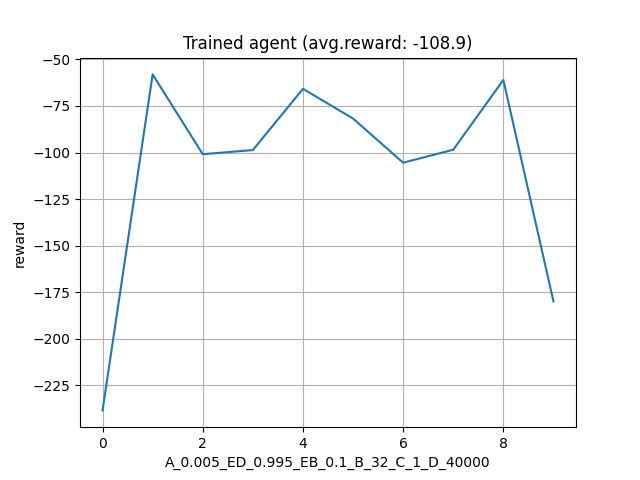
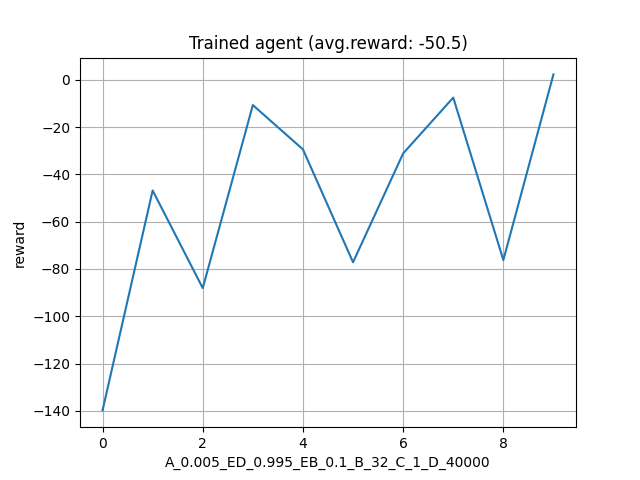
Jan 18 update

diff --git a/test.py b/test.py
@@ -8,31 +8,11 @@ from tensorflow.python.framework.ops import disable_eager_execution
 tf.compat.v1.disable_eager_execution()
 disable_eager_execution()
 
-# class Environment(object):
-#     def __init__(self):
-#         self.whoami = 'environment'
-#
-#     def start(self, episode_num):
-#
-#         array = np.array([episode_num, episode_num, episode_num, episode_num])
-#
-#         return array
-#
-#     def action(self, agent_action):
-#         # now let's see what we've learned
-#         array = np.array([agent_action, agent_action, agent_action, agent_action])
-#         end_flag = False
-#         reward = np.random.random() * 50 - 100
-#
-#         return array, reward, end_flag
-#
-#         pass
-
 class Agent(object):
     def __init__(self):
         self.whoami = 'agent'
         self.env = en.Environment()
-        self.columns = self.env.loaddata()
+        self.columns = self.env.loaddata() + self.env.derivative_columns
 
         # general parameters
         self.ep_step_cap = 1000
@@ -49,8 +29,8 @@ class Agent(object):
         self.gamma = 0.1  # 0.99
         self.epsilon = 1.0  # 1.0
 
-        self.M_episodes = 10
-        self.T_episodes = 10
+        self.M_episodes = 1000
+        self.T_episodes = 100
 
         # learned parameters
         self.minibatch = 32  # 32
@@ -117,13 +97,15 @@ class Agent(object):
 
         while episode <= self.M_episodes:
 
-            this_state = self.env.start(episode)
+            first_state, derivative_state = self.env.start(episode)
+            this_state = np.concatenate((first_state, derivative_state))
 
             end_flag = False
             t = 0
             total_reward = 0.0
             len_D_flag = False
             len_D = 0
+            action_stats = [0,0,0]
 
             # run episode
             while (t < self.ep_step_cap) and not end_flag:
@@ -138,8 +120,11 @@ class Agent(object):
                     # convert action range (0, 1, 2) to (-1, 0, 1)
                     action = np.argmax(Q_value[0]) - 1
 
+                action_stats[action+1] += 1
+
                 # Execute action a_t in emulator and observe reward r_t and image x_t+1
-                next_state, reward, end_flag = self.env.action(action)
+                first_state, derivative_state, reward, end_flag = self.env.action(action)
+                next_state = np.concatenate((first_state, derivative_state))
 
                 total_reward += reward
 
@@ -220,7 +205,7 @@ class Agent(object):
             # printing statistics about finished episode
             if self.debug:
                 # self.env.render()
-                print('total_reward', total_reward, 'episode', episode)
+                print('total_reward', total_reward, 'episode', episode, 'Stats: buy', action_stats[2], 'hold', action_stats[1], 'sell', action_stats[0], 'total', sum(action_stats))
 
             # increasing episode counter
             episode += 1
@@ -229,11 +214,12 @@ class Agent(object):
         # now let's see what we've learned
 
         for q in range(self.T_episodes):
-            state = self.env.start(self.M_episodes + 1 + q)
-            # state = self.dict_to_list(dict_state)
+            first_state, derivative_state = self.env.start(self.M_episodes + 1 + q)
+            state = np.concatenate((first_state, derivative_state))
             i = 0
             end_flag = False
             t_reward = 0
+            action_stats = [0, 0, 0]
 
             while (i < self.ep_step_cap) and not end_flag:
                 i += 1
@@ -243,12 +229,14 @@ class Agent(object):
                 action = np.argmax(Q_value[0]) - 1
 
                 # perform action
-                state, reward, end_flag = self.env.action(action)
-                # state = self.dict_to_list(dict_state)
+                first_state, derivative_state, reward, end_flag = self.env.action(action)
+                state = np.concatenate((first_state, derivative_state))
+
+                action_stats[action+1] += 1
                 t_reward += reward
 
             if self.debug:
-                print('t_reward', t_reward, 'episode', q)
+                print('t_reward', t_reward, 'episode', q, 'Stats: buy', action_stats[2], 'hold', action_stats[1], 'sell', action_stats[0], 'total', sum(action_stats))
 
             self.trained_rewards.append(t_reward)
 
@@ -258,5 +246,3 @@ my_agent.draw_rewards(my_agent.rewards, my_agent.M_episodes, "training_tr.png", 
                       my_agent.rewards_100_avg)
 my_agent.testing()
 my_agent.draw_rewards(my_agent.trained_rewards, my_agent.T_episodes, "running_tr.png", 'Trained agent', True, [])
-
-

diff --git a/enviroment.py b/enviroment.py
@@ -8,6 +8,10 @@ class Environment(object):
         self.start_balance = 1000
         self.balance = 1000
         self.stock = 0
+
+        # number of calculated additional columns
+        self.derivative_columns = 1
+
         self.fee = 0.0005
         # Массив решений action -1 0 1 и stock -1 0 1
         self.scheme = [[-1, -1, 1], [-1, 0, 1], [-1, 1, 1]]
@@ -58,9 +62,9 @@ class Environment(object):
         self.load_episod(episode_num)
 
         # На старте запускаем action с 0
-        array, reward, end_flag = self.action(0)
+        array, derivative_array, reward, end_flag = self.action(0)
 
-        return array
+        return array, derivative_array
 
     def action(self, action):
         end_flag = False
@@ -70,6 +74,8 @@ class Environment(object):
             end_flag = True
 
         # Новый остаток
+        if self.stock > 1 or action > 1:
+            print(self.cur_ep)
         new_stock = self.scheme[self.stock + 1][action + 1]
         diff_stock = new_stock - self.stock
 
@@ -83,11 +89,11 @@ class Environment(object):
         self.stock = new_stock
 
         array = self.dict_to_list(array)
+        derivative_array = np.array([new_stock])
 
-        return array, reward, end_flag
+        return array, derivative_array, reward, end_flag
 
-        pass
-
+#
 # env = Environment()
 # # Получаем данные
 # env.loaddata()

diff --git a/tmp.py b/tmp.py
@@ -1,0 +1,7 @@
+import numpy as np
+
+arr1 = np.array([1, 2])
+arr2 = np.array([3])
+array_c = np.concatenate((arr1, arr2))
+
+print(array_c)
